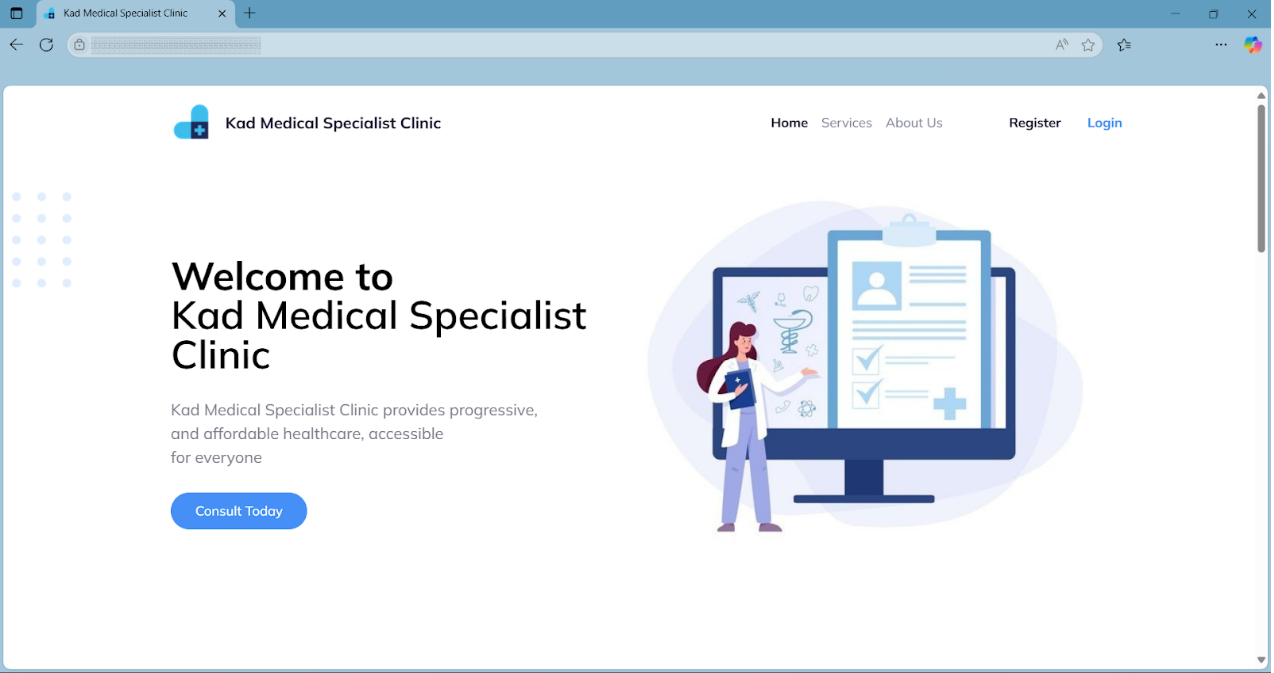
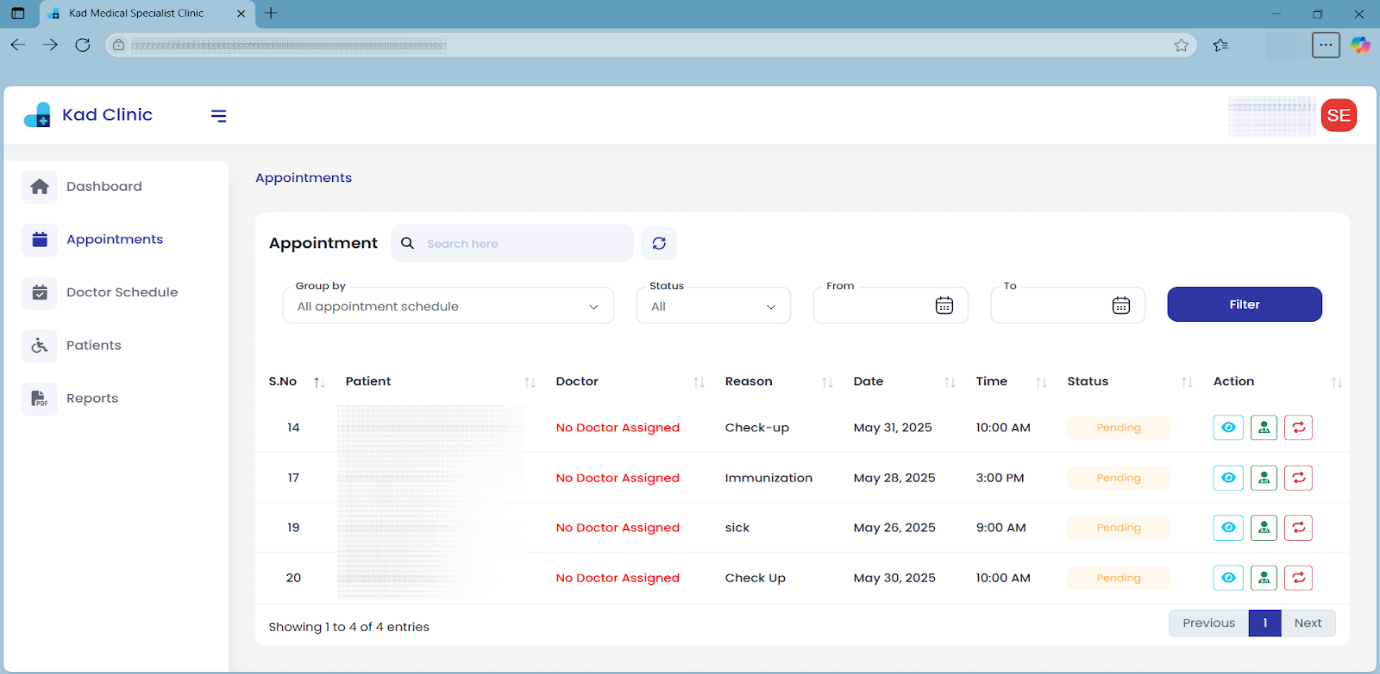
Add new projects and update portfolio metadata

diff --git a/src/components/sections/ProjectsSection.vue b/src/components/sections/ProjectsSection.vue
@@ -178,7 +178,7 @@ function moveProject(direction: -1 | 1) {
                 </div>
                 <div v-else class="flex h-full w-full flex-col items-center justify-center bg-linear-to-br from-(--accent-color)/10 via-white/2 to-transparent p-4 text-center">
                     <span class="flex h-16 w-16 items-center justify-center rounded-2xl border border-(--accent-color)/20 bg-black/20 text-accent shadow-[0_0_60px_rgba(251,146,60,0.08)]">
-                        <Icon :icon="activeProject.id === 'pharma-clinic' ? 'lucide:heart-pulse' : 'lucide:receipt-text'" class="block h-8 w-8 shrink-0" />
+                        <Icon icon="akar-icons:image" class="block h-8 w-8 shrink-0" />
                     </span>
                     <p class="mt-4 text-[10px] font-semibold text-gray-300">{{ activeProject.name }}</p>
                     <p class="mt-1 text-[9px] uppercase tracking-widest text-gray-500">No preview image</p>

diff --git a/src/data/projects.ts b/src/data/projects.ts
@@ -85,4 +85,26 @@ export const projects: PortfolioProject[] = [
     repository: null,
     image: leave,
   },
+  {
+    id: 'wordpress',
+    name: 'We Buy Junk Cars for Cash Website Clone',
+    category: 'Project',
+    description:
+    'A WordPress and Elementor site clone built to master custom layouts, responsive design, and page builder workflows.',
+    technologies: ['Wordpress', 'Elementor'],
+    link: null,
+    repository: null,
+    image: null,
+  },
+  {
+    id: 'ecommerce',
+    name: 'Practice Project for an E-commerce Website',
+    category: 'Project',
+    description:
+    'A practice e-commerce website built with WordPress and Elementor to explore online store functionality, product layouts, and design customization.',
+    technologies: ['Wordpress', 'Elementor'],
+    link: null,
+    repository: null,
+    image: null,
+  },
 ]

diff --git a/index.html b/index.html
@@ -4,7 +4,7 @@
     <meta charset="UTF-8" />
     <link rel="icon" type="image/svg+xml" href="/favicon.svg" />
     <meta name="viewport" content="width=device-width, initial-scale=1.0" />
-    <title>Portfolio</title>
+    <title>Ted Bryan Razonado | Portfolio</title>
   </head>
   <body>
     <div id="app"></div>
